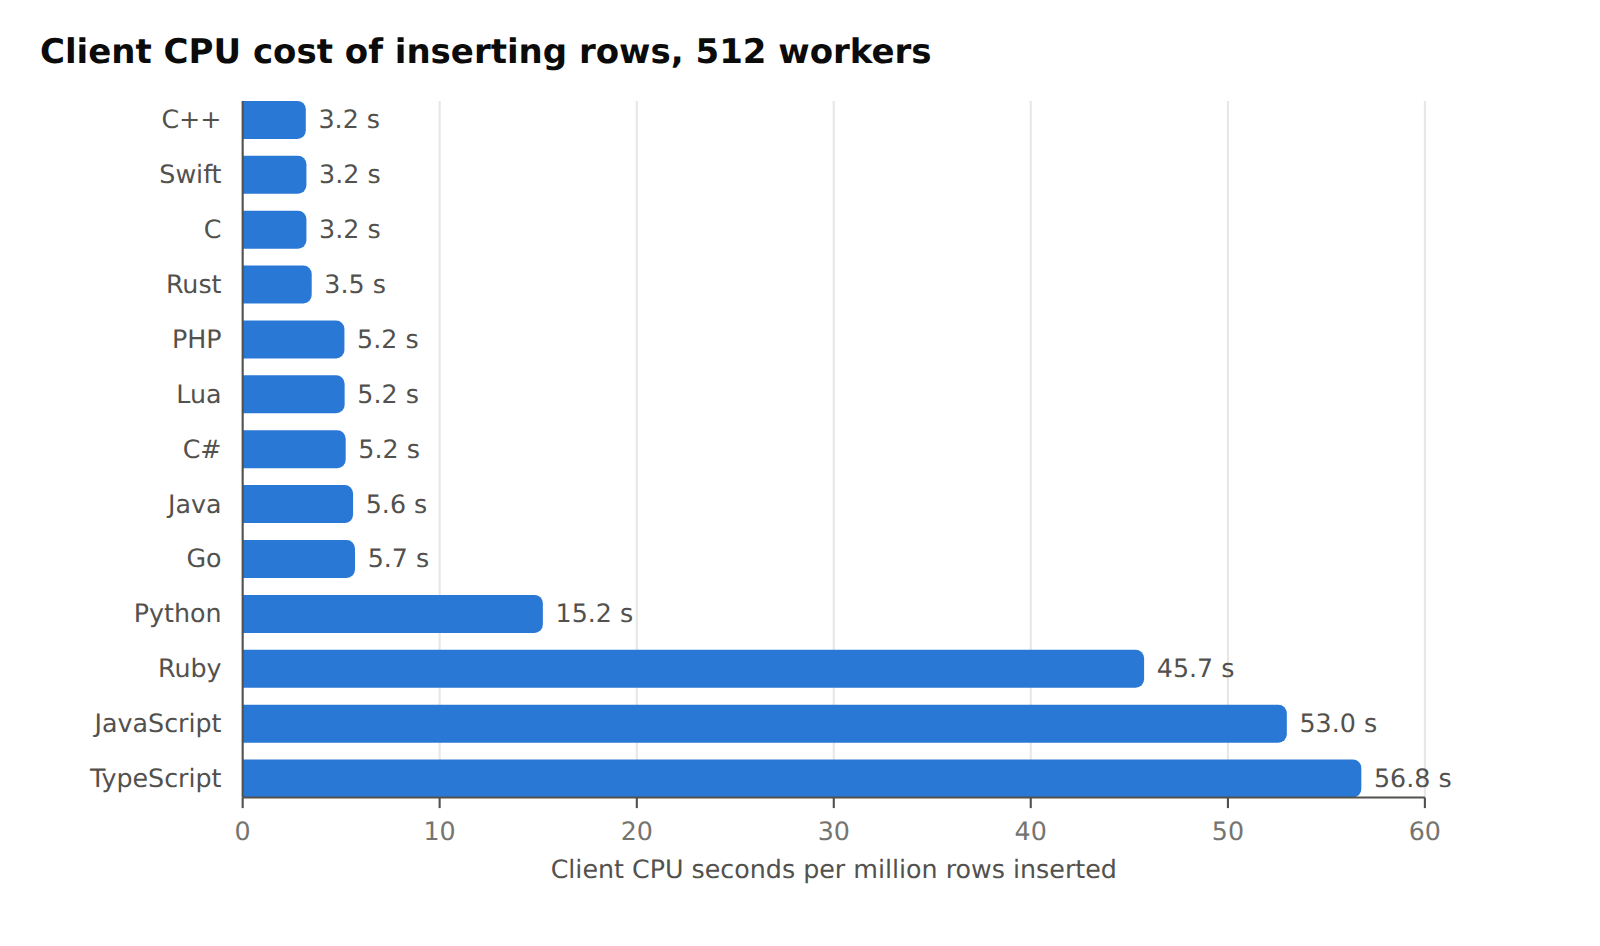
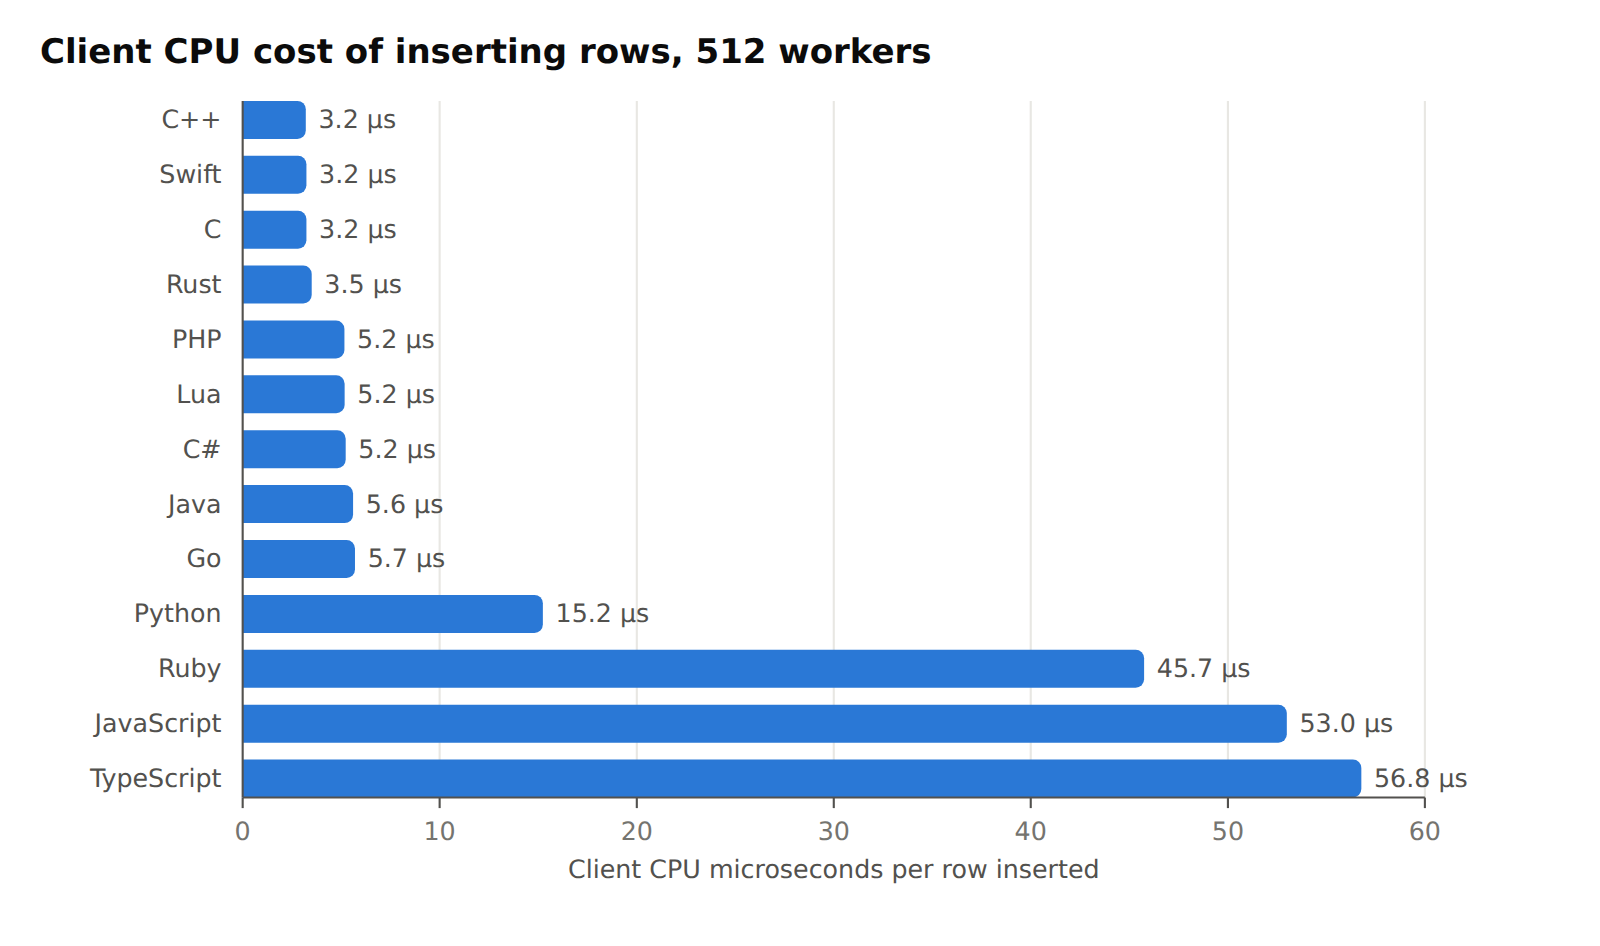
blog: show insert CPU cost in microseconds per row
Same values as CPU seconds per million rows; only the unit label changes.

Claude-Session: https://claude.ai/code/session_01DVm3N343MAy56E6DLkPUGX

diff --git a/blog/build_charts.py b/blog/build_charts.py
@@ -219,14 +219,14 @@ def build_post2():
                          end_fmt=fmt_m, ylabel="Rows inserted per second", left=70)
     render("post-2-w1", page("Rows inserted per second, by number of workers", svg, POST2_SERIES))
 
-    # Client CPU seconds per million rows inserted, 512 workers, cheapest first.
+    # Client CPU microseconds per row inserted (= CPU seconds per million rows), 512 workers, cheapest first.
     rows = []
     for lang, name in NAMES.items():
         r = run(1, lang, 512)
         rows.append((name, r["client_cpu_s"] / r["ops"] * 1e6))
     rows.sort(key=lambda kv: kv[1])
-    svg, h = bar_chart_svg(rows, xmax=60, xtick=10, xlabel="Client CPU seconds per million rows inserted",
-                           value_fmt=lambda v: f"{v:.1f} s")
+    svg, h = bar_chart_svg(rows, xmax=60, xtick=10, xlabel="Client CPU microseconds per row inserted",
+                           value_fmt=lambda v: f"{v:.1f} µs")
     render("post-2-w1-cpu", page("Client CPU cost of inserting rows, 512 workers", svg), height=int(h * 760 / 720) + 70)
 
 
